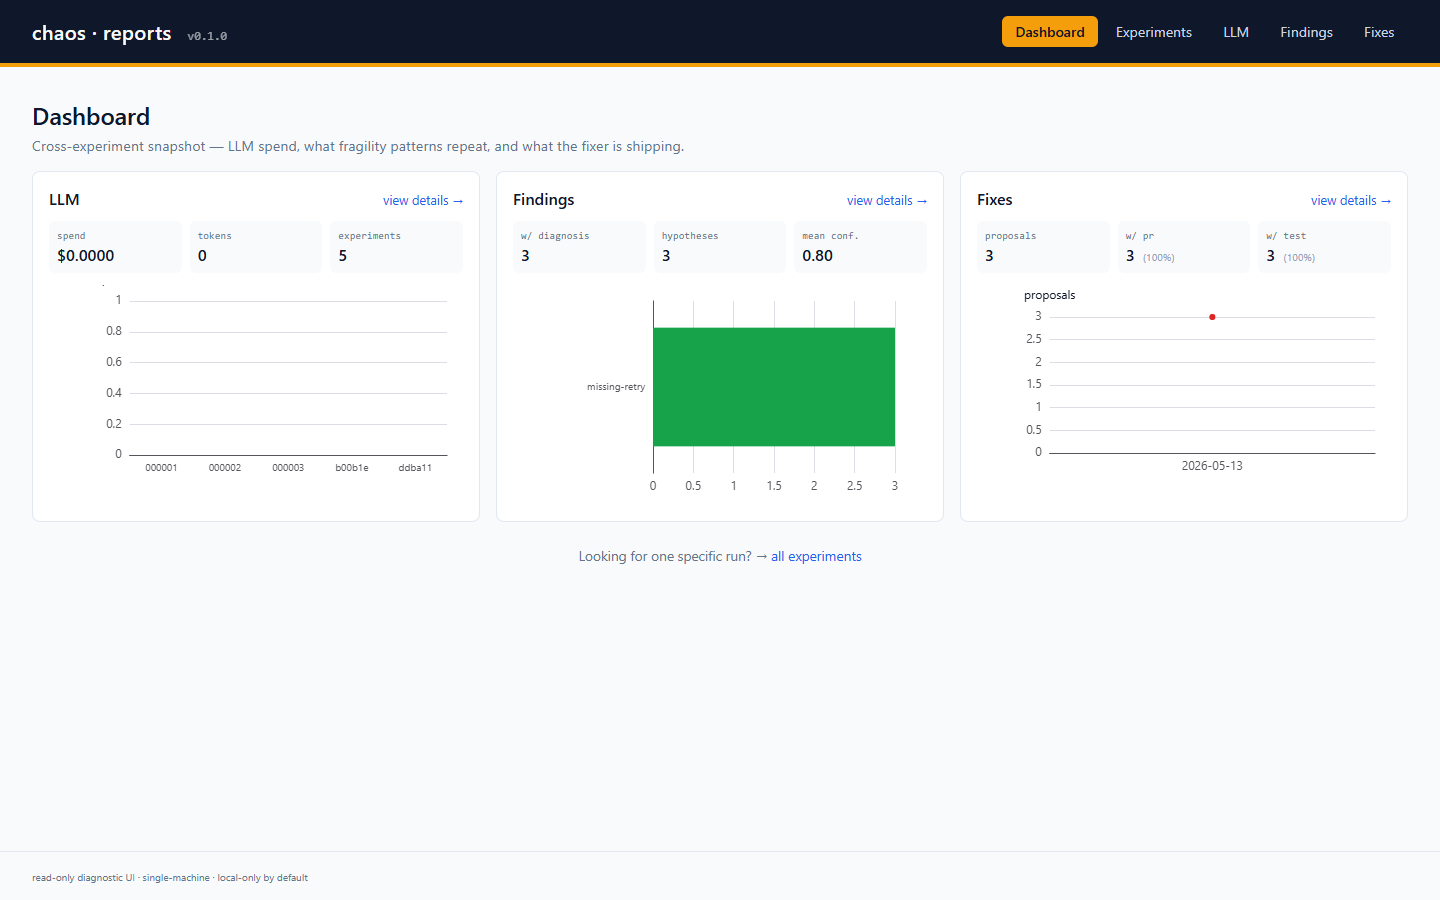
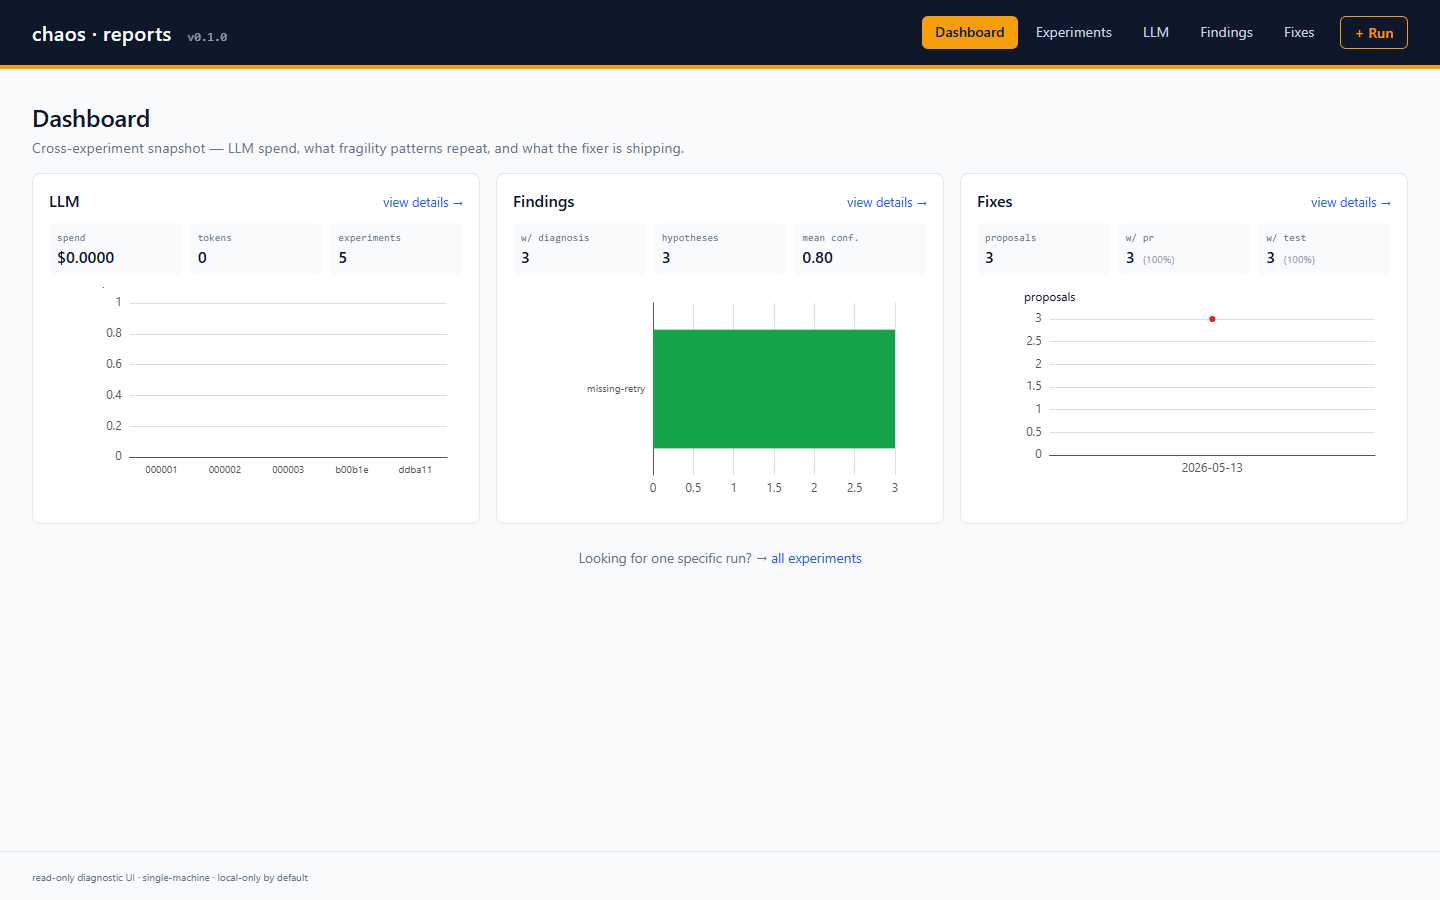
docs: replace ASCII diagrams with rendered cast + state-machine images
Two fixes in one commit:

1. Root README — swap the two ASCII art blocks (cast hierarchy + state
   machine) for the rendered PNGs in docs/cast/. The new images carry
   the same semantic content but with proper typography, agent icons,
   colour-coded states, and a legend on the flow chart. ASCII art was
   fine when the only render target was a terminal; now that the README
   ships on GitHub + the project landing page, the rendered diagrams
   read better and stay aligned at any zoom level. Both images get
   descriptive alt text for screen readers.

2. ui/README screenshots 09–12 (dashboard / llm / findings / fixes) were
   captured at the end of PR B.3, before PR B.4 added the "+ Run" CTA
   to the top nav. Re-take them now so the documented UI matches the
   live UI. Screenshots 13 (run page) and 14 (control actions) were
   already taken with the post-B.4 nav so they're unchanged.

diff --git a/README.md b/README.md
@@ -25,22 +25,9 @@ the fault. A human reads dashboards, files a Jira ticket, opens a PR weeks
 later. This system tries to do all of that — *or fail honestly when it
 can't*.
 
-```
-                  ┌──────────────────────────────────────────────┐
-                  │              orchestrator                    │
-                  │   deterministic state machine + safety gates │
-                  └────────────────┬─────────────────────────────┘
-                                   │
-        ┌──────────┬───────────────┼───────────────┬──────────────┐
-        ▼          ▼               ▼               ▼              ▼
-    ┌────────┐ ┌────────┐    ┌──────────┐   ┌──────────────┐ ┌────────┐
-    │ tester │ │ chaos  │    │ security │   │ diagnostician│ │ fixer  │
-    └────────┘ └────────┘    └──────────┘   └──────────────┘ └────────┘
-   baseline +   inject +     DAST / SBOM     RCA from logs   draft PR
-   hypotheses   security     SCA / secrets   + traces +      + docs,
-   from code    faults via   posture, sign   chaos timeline  never
-   reading      Chaos Mesh   verification    + both reports  auto-merges
-```
+<p align="center">
+  <img src="docs/cast/diagram_cast.png" alt="The orchestrator delegating to five agents: tester, chaos, security, diagnostician, fixer — each labelled with its responsibilities" width="780" />
+</p>
 
 ---
 
@@ -141,42 +128,9 @@ machine. Each transition is persisted to SQLite so a mid-run crash is
 recoverable. *"Everyone in their lane. The state machine doesn't take
 requests."*
 
-```
-INITIALIZING
-    │
-    ▼  pre-flight gates: cluster denylist, blast radius, namespace annotation
-BASELINE  ───────────────────────►  BASELINE_FAIL  ─────►  ABORTED
-    │     check_baseline_healthy?
-    ▼
-BASELINE_OK
-    │  check_budget?
-    ▼
-INJECT  ──── chaos agent renders + applies CRD via ClusterIO
-    │
-    ▼
-INJECTED  ─────────────────────►  INJECT_FAILED  ──────►  ABORTED
-    │
-    ▼
-VERIFY  ──── tester re-runs probes (statistical comparison)
-    │       security re-scans
-    │
-    ▼ steady?
-    ├── yes ──► STEADY  ──► RECORDED  ──► [done]
-    │
-    └── no  ──► REGRESSED
-                    │  check_budget?
-                    ▼
-                DIAGNOSE  ──── diagnostician produces ranked hypotheses
-                    │
-                    ▼
-                DIAGNOSED
-                    │  check_budget?
-                    ▼
-                PROPOSE_FIX  ──── fixer decides + (optionally) drafts PR
-                    │
-                    ▼
-                FIX_PROPOSED  ──► RECORDED  ──► [done]
-```
+<p align="center">
+  <img src="docs/cast/diagram_decision_flow.png" alt="The orchestrator state machine: INITIALIZING through pre-flight gates, BASELINE / BASELINE_OK / INJECT / VERIFY branches, then STEADY → RECORDED on the happy path or REGRESSED → DIAGNOSE → DIAGNOSED → PROPOSE_FIX → FIX_PROPOSED → RECORDED, with explicit BASELINE_FAIL / INJECT_FAILED → ABORTED branches" width="520" />
+</p>
 
 **Hard rules baked into the state machine:**
 
